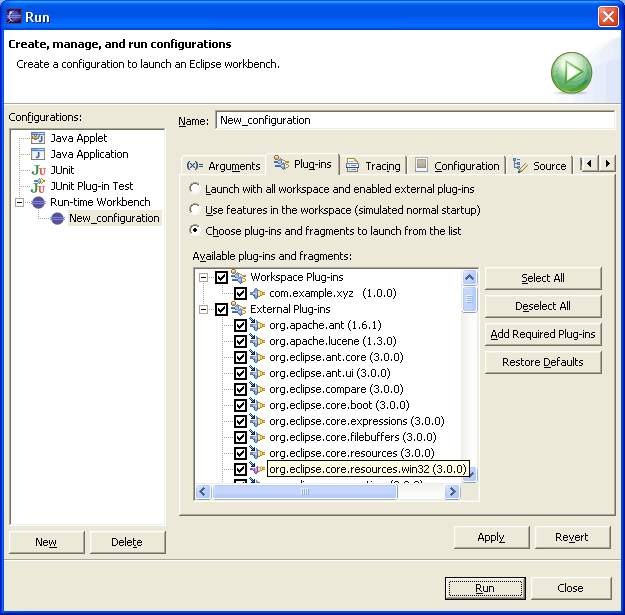
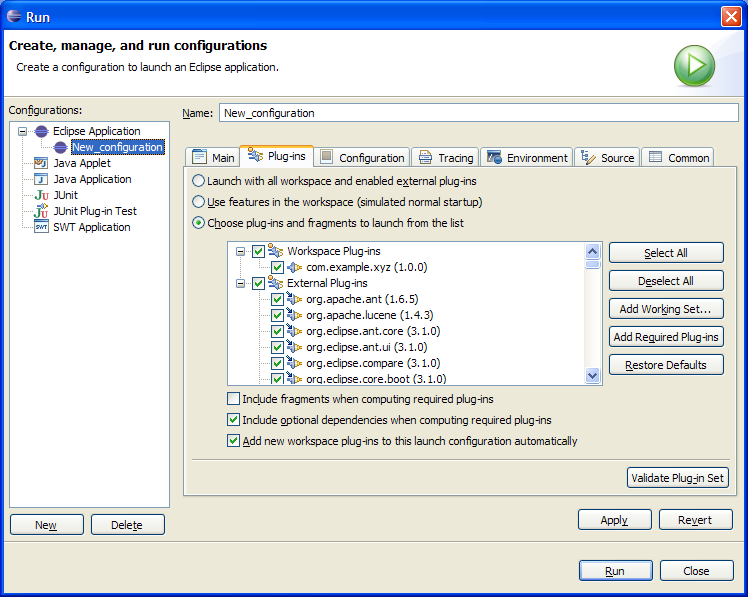
*** empty log message ***

diff --git a/bundles/org.eclipse.pde.doc.user/guide/pde_running_plugins.htm b/bundles/org.eclipse.pde.doc.user/guide/pde_running_plugins.htm
@@ -10,19 +10,17 @@
 <BODY BGCOLOR="#ffffff">
 
 <h2>Choosing plug-ins to run</h2>
-<p>It is possible to alter the list of plug-ins and fragments that PDE will pass
-to the run-time workbench when running or debugging.  </p>
+<p>By default, the Eclipse application is launched with all the workspace plug-ins 
+  and all the plug-ins selected on the <strong>Plug-in Development &gt; Target 
+  Platform</strong> preference page.</p>
+<p>It is possible however to hand-select a subset of plug-ins to launch with on 
+  the <strong>Plug-ins</strong> tab of the launch configuration.</p>
 <p align="center">
 <img border="0" src="images/launch-plugins.png" alt="Run-time workbench launcher - plug-ins and fragments" ></p>
-<p>
-By default, the<b> Plug-ins </b>tab is configured to select all the workspace 
-plug-ins and external plug-ins that are enabled in the Preferences. </p>
-<p align="left">You also have the option to launch with any subset of those 
-plug-ins. This gives you great flexibility, but with flexibility comes the
-danger of ending up with an invalid configuration. Use this feature carefully
-and press <b>Add Required Plug-ins</b> to ensure the subset is complete.</p>
-
-
+<p> This gives you great flexibility, but with flexibility comes the danger of 
+  ending up with an invalid configuration. Use this feature carefully and press 
+  the <strong>Validate Plug-in Set </strong>often to ensure that all inter-plug-in 
+  dependencies in your subset are satisfied.</p>
 </body>
 
 </html>
